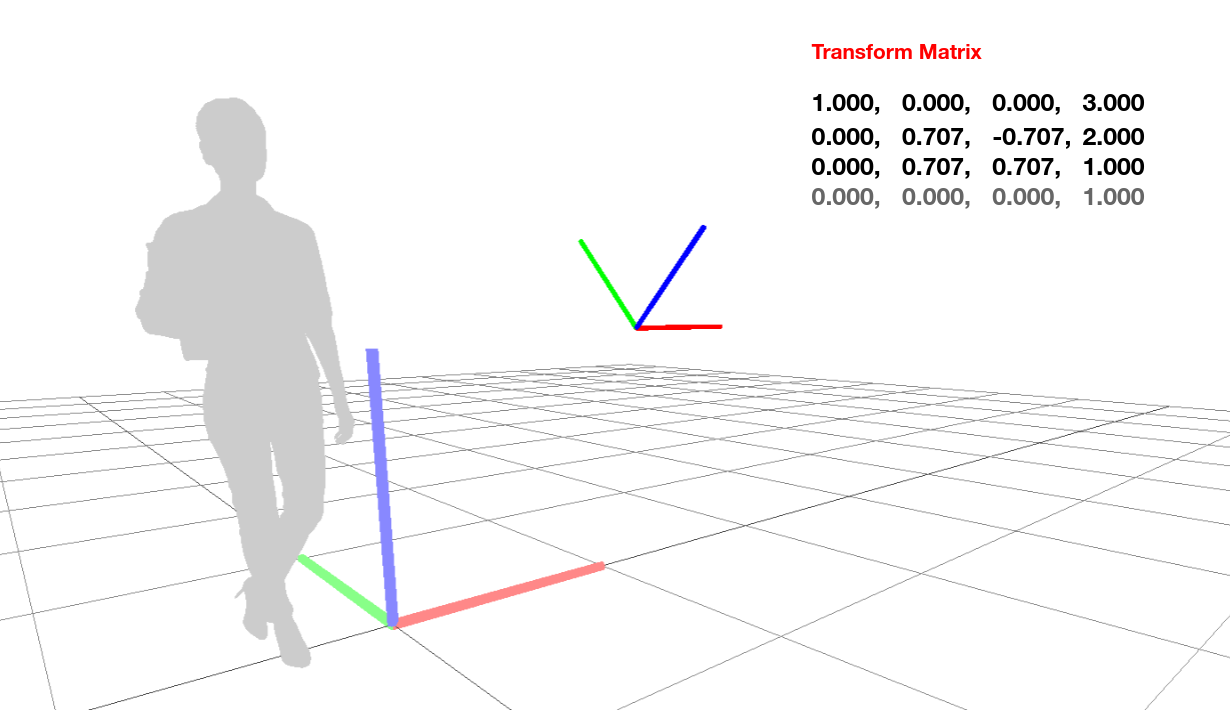
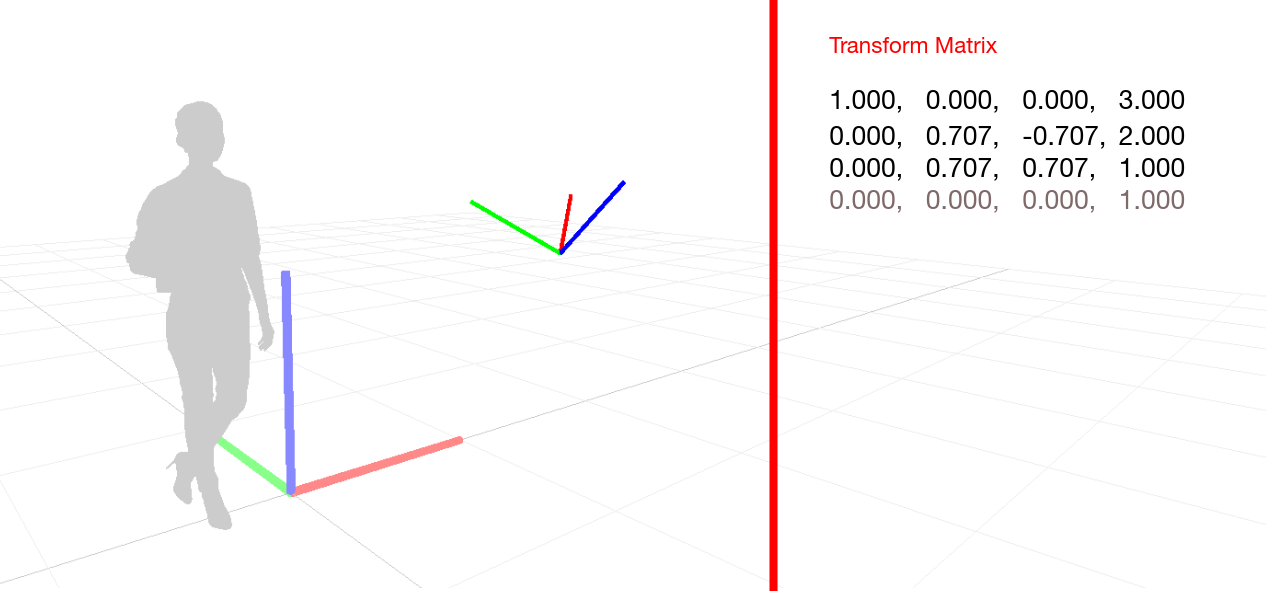
grid looks better

diff --git a/transform_viewer/index.html b/transform_viewer/index.html
@@ -215,7 +215,7 @@
       light.position.set( 0, -1, 5 );
       scene.add(light);
 
-      var grid = new THREE.GridHelper(20, 20);
+      var grid = new THREE.GridHelper(20, 20, 0xcccccc, 0xeeeeee);
       grid.rotation.x = Math.PI / 2;
       scene.add(grid);
 
